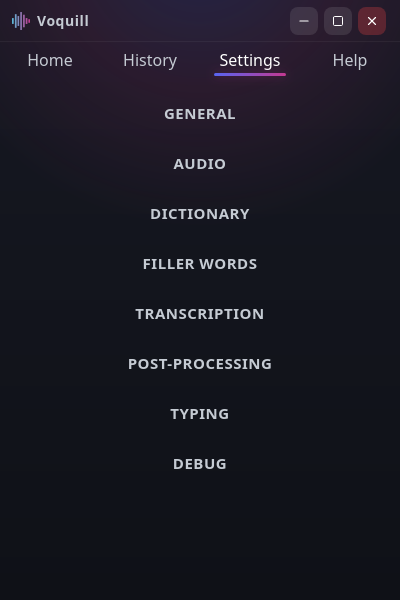
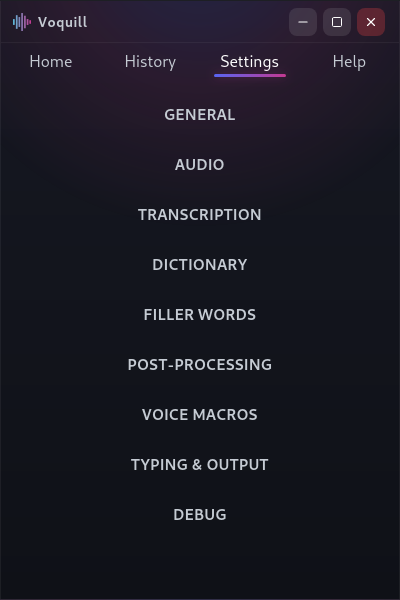
docs: update readme badges and add voice macros across documentation

diff --git a/README.md b/README.md
@@ -7,10 +7,18 @@
 <p align="center">Truly free, private system-wide push-to-talk dictation tool.</p>
 
 <p align="center">
+  <a href="#features"><img src="https://img.shields.io/badge/Voice%20Macros-Key%20Combos%20%26%20Automation-8b5cf6" alt="Voice Macros" /></a>
+  <a href="#features"><img src="https://img.shields.io/badge/Local%20AI-LLM%20Post--Processing-6366f1" alt="Local AI Post-Processing" /></a>
+  <a href="#features"><img src="https://img.shields.io/badge/Hardware%20Typing-Typewriter%20%26%20Auto--Paste-06b6d4" alt="Hardware Typing & Emulation" /></a>
+  <a href="#features"><img src="https://img.shields.io/badge/Speaker%20Diarization-Multi--Voice-ec4899" alt="Speaker Diarization" /></a>
+  <a href="#the-philosophy"><img src="https://img.shields.io/badge/100%25%20Offline-Zero%20Telemetry-10b981" alt="100% Offline" /></a>
+</p>
+
+<p align="center">
   <a href="https://www.gnu.org/licenses/agpl-3.0.html"><img src="https://img.shields.io/badge/License-AGPLv3-blue.svg" alt="AGPL v3 License" /></a>
   <a href="https://github.com/jackbrumley/voquill"><img src="https://img.shields.io/badge/Platform-Windows%20%7C%20Linux-4f46e5" alt="Platform" /></a>
-  <a href="https://tauri.app/"><img src="https://img.shields.io/badge/Built%20With-Tauri-14b8a6" alt="Built with Tauri" /></a>
   <a href="https://flatpak.github.io/xdg-desktop-portal/"><img src="https://img.shields.io/badge/Wayland-XDG%20Portals-4f46e5" alt="Wayland via XDG Portals" /></a>
+  <a href="https://tauri.app/"><img src="https://img.shields.io/badge/Built%20With-Tauri%20%2B%20Rust-14b8a6" alt="Built with Tauri and Rust" /></a>
 </p>
 
 <p align="center">
@@ -64,6 +72,7 @@ Setup EXE installs per-user (no admin). MSI is a system-wide install intended fo
 
 - **Private & Offline by Default** — On-device speech recognition powered by Whisper.cpp (Vulkan GPU / CPU) and NVIDIA Parakeet. Your voice never leaves your machine—no accounts, no cloud dependencies, no subscriptions.
 - **Push-to-Talk & Toggle Modes** — Choose between Hold-to-Talk or Toggle mode. Customizable global hotkey with instant capture UI and press-to-cancel support during transcription.
+- **Voice Macros & Input Automation** — Trigger automated keystroke combinations (`Ctrl+Alt+1`), key holds, typed text sequences, pauses, and custom sound feedback (synthesized TTS, custom recordings, chimes) using spoken phrases. Built-in visual sequence builder with import/export capabilities.
 - **Transcript Post-Processing (Local & Cloud AI)** — Clean up transcripts, fix grammar, punctuation, and speech artefacts using local LLMs (Qwen 2.5 1.5B, Llama 3.2 1B) or OpenAI-compatible cloud APIs (OpenRouter, Groq, Ollama, vLLM). Create custom prompt presets (or use built-in presets for grammar, email polish, and concise notes) and compare original vs. cleaned text side-by-side.
 - **Audio File Transcription** — Drag-and-drop or browse audio files (WAV, MP3, M4A, FLAC, OGG). Fully integrated with speaker differentiation and post-processing.
 - **Differentiate Voices (Speaker Diarization)** — Detect and label distinct speakers (`Speaker 1`, `Speaker 2`) in both imported audio files and live dictations with configurable cluster sensitivity.
